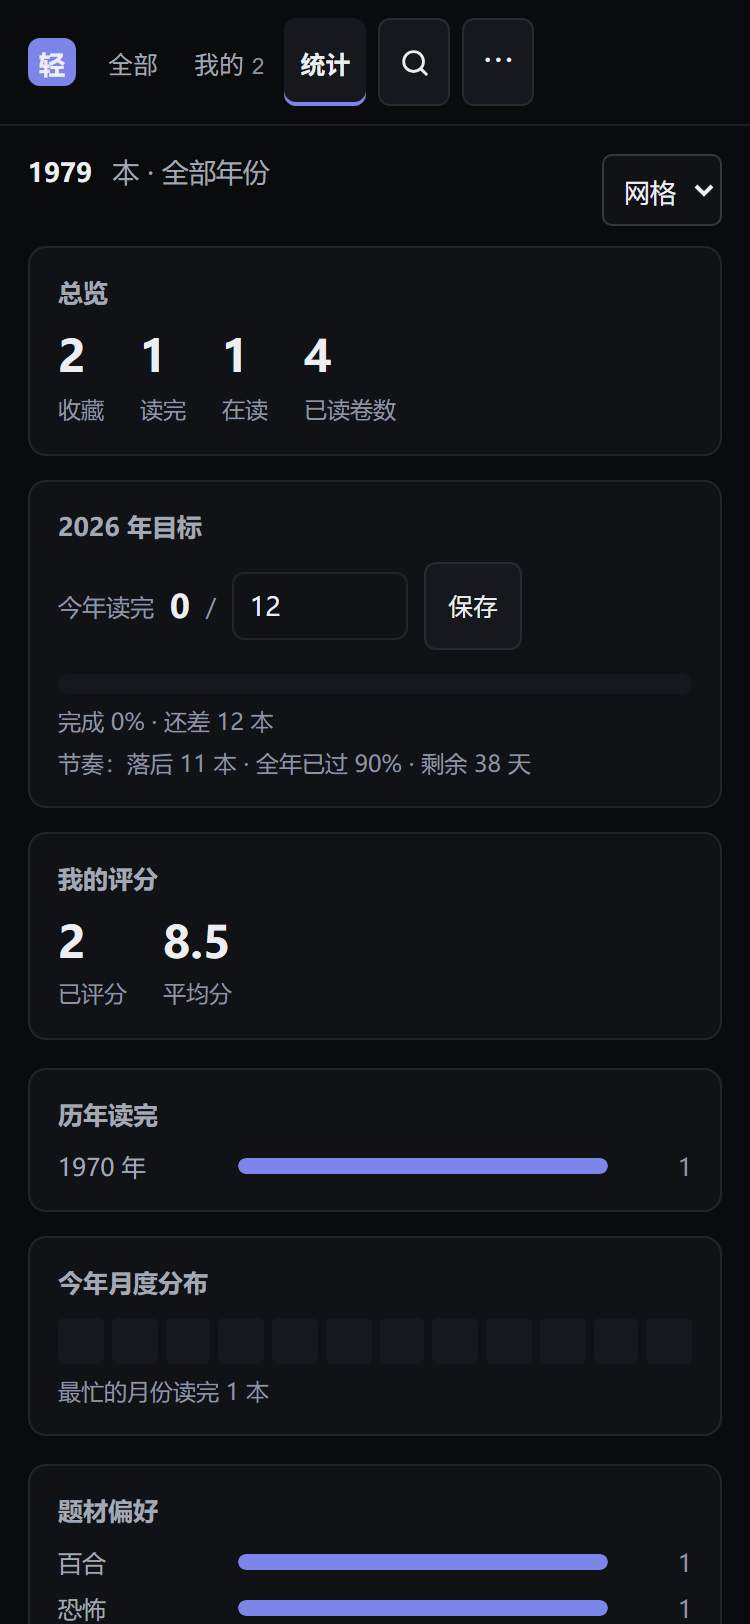
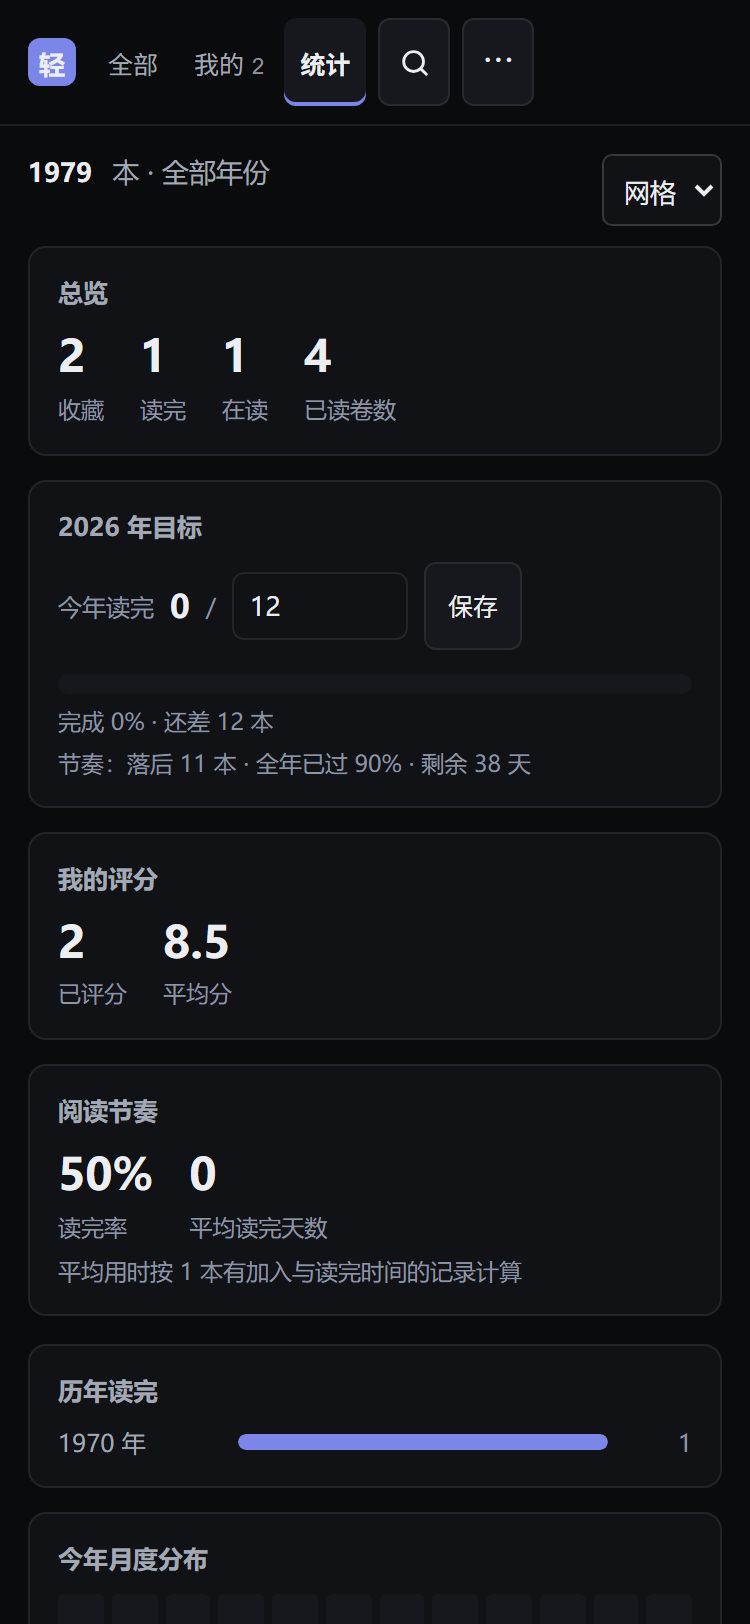
improve: 统计页阅读节奏（读完率与平均读完天数，参考 StoryGraph）

diff --git a/index.html b/index.html
@@ -18,7 +18,7 @@
 <link rel="preconnect" href="https://bgmimg.anibt.net" crossorigin>
 <link rel="dns-prefetch" href="https://bgmimg.anibt.net">
 <meta name="theme-color" content="#0a0b0d">
-<meta name="version" content="1.1.9">
+<meta name="version" content="1.2.0">
 <style>
   :root {
     --bg: #0d0f14;
@@ -2648,7 +2648,7 @@
 </main>
 
 <footer class="wrap">
-  数据来源 <a href="https://bgm.tv" target="_blank" rel="noreferrer">Bangumi 番组计划</a> · 通过镜像接口生成 · 封面版权归原作者所有 · 数据更新于 <span id="dataUpdated" title="Bangumi 数据快照生成时间">—</span> · <span title="项目版本">v1.1.9</span>
+  数据来源 <a href="https://bgm.tv" target="_blank" rel="noreferrer">Bangumi 番组计划</a> · 通过镜像接口生成 · 封面版权归原作者所有 · 数据更新于 <span id="dataUpdated" title="Bangumi 数据快照生成时间">—</span> · <span title="项目版本">v1.2.0</span>
 </footer>
 
 <div class="modal" id="modal" hidden>
@@ -4319,6 +4319,34 @@
   }
   window.__lnGoalPace = goalPace;
 
+  // 阅读节奏：读完率与平均读完天数（参考 StoryGraph 的平均读完用时统计）
+  // 平均天数只统计同时有加入时间 t 与读完时间 f 的记录，按自然日取整后再求平均
+  function readingPace(entries) {
+    var list = entries || [];
+    var total = list.length;
+    var done = 0;
+    var sum = 0;
+    var sampled = 0;
+    list.forEach(function (o) {
+      var e = (o && o.e) || o || {};
+      if (e.s === 'done') done += 1;
+      var t = Number(e.t) || 0;
+      var f = Number(e.f) || 0;
+      if (t > 0 && f >= t) {
+        sum += Math.round((f - t) / 86400000);
+        sampled += 1;
+      }
+    });
+    return {
+      total: total,
+      done: done,
+      rate: total ? Math.round((done / total) * 100) : 0,
+      avgDays: sampled ? Math.round((sum / sampled) * 10) / 10 : null,
+      sampled: sampled
+    };
+  }
+  window.__lnReadingPace = readingPace;
+
   function barRows(pairs, emptyText) {
     if (!pairs.length) return '<div class="review-hint">' + emptyText + '</div>';
     var max = pairs[0][1] || 1;
@@ -4375,6 +4403,7 @@
         .sort(function (a, b) { return b[1] - a[1]; }).slice(0, 8);
     };
     var finishedThisYear = byYear[year] || 0;
+    var pace = readingPace(entries);
     var goal = loadGoal();
     var goalPct = goal.target > 0 ? Math.min(100, Math.round((finishedThisYear / goal.target) * 100)) : 0;
     var yearKeys = Object.keys(byYear).map(Number).sort(function (a, b) { return a - b; }).slice(-6);
@@ -4416,6 +4445,13 @@
           '<div class="stat-num"><b>' + rated.length + '</b><span>已评分</span></div>' +
           '<div class="stat-num"><b>' + (avgRating ? avgRating.toFixed(1) : '—') + '</b><span>平均分</span></div>' +
         '</div></div>' +
+        '<div class="stat-card"><h3>阅读节奏</h3><div class="stat-nums">' +
+          '<div class="stat-num"><b>' + pace.rate + '%</b><span>读完率</span></div>' +
+          '<div class="stat-num"><b>' + (pace.avgDays == null ? '—' : pace.avgDays) +
+            '</b><span>平均读完天数</span></div>' +
+        '</div><div class="goal-meta">' + (pace.sampled
+          ? '平均用时按 ' + pace.sampled + ' 本有加入与读完时间的记录计算'
+          : '记录加入与读完时间后可统计平均用时') + '</div></div>' +
       '</div>' +
       '<div class="stats-grid">' +
         '<div class="stat-card"><h3>历年读完</h3>' + barRows(yearPairs, '还没有读完记录') + '</div>' +

diff --git a/sw.js b/sw.js
@@ -1,5 +1,5 @@
 // 应用壳离线缓存：首页网络优先并带超时回退，其余同源资源缓存优先、后台更新
-var CACHE = 'yuc-ln-shell-v12';
+var CACHE = 'yuc-ln-shell-v13';
 var SHELL = ['./', './index.html', './manifest.webmanifest', './icon.svg', './icons/icon-180.png', './icons/icon-192.png', './icons/icon-512.png', './data/light-novels.js'];
 var IMG_LIMIT = 400;
 

diff --git a/README.md b/README.md
@@ -2,7 +2,9 @@
 
 本地优先的轻小说浏览与阅读记录 PWA。内置 Bangumi「轻小说」标签条目 4007 条，无账号、无后端。
 
-状态：**v1.1.9 已完成**（数据、页面、书评、统计、云同步、PWA、自动化验收 146 项）
+状态：**v1.2.0 已完成**（数据、页面、书评、统计、云同步、PWA、自动化验收 148 项）
+
+v1.2.0：阅读统计新增「阅读节奏」卡片：读完率（读完 ÷ 收藏）与平均读完天数（按加入与读完时间计算，并标注参与统计的本数）。
 
 v1.1.9：搜索框输入两个字符后浮出书名 / 作者联想（最多 6 条），支持方向键高亮、回车或点击回填；搜索框补齐 `combobox` / `listbox` 语义与 `aria-activedescendant`，屏幕阅读器可感知建议列表。
 
@@ -60,7 +62,7 @@ npm run clean-series  # 用本地缓存离线重算子卷
 npm run check-data    # 数据校验
 npm run build-pinyin  # 离线重算拼音首字母
 npm run test-merge    # 同步合并逻辑单元测试
-npm run verify        # 无头浏览器自动化验收（146 项）
+npm run verify        # 无头浏览器自动化验收（148 项）
 ```
 
 `npm run verify` 会在 `screenshots/` 输出桌面与移动端截图。
